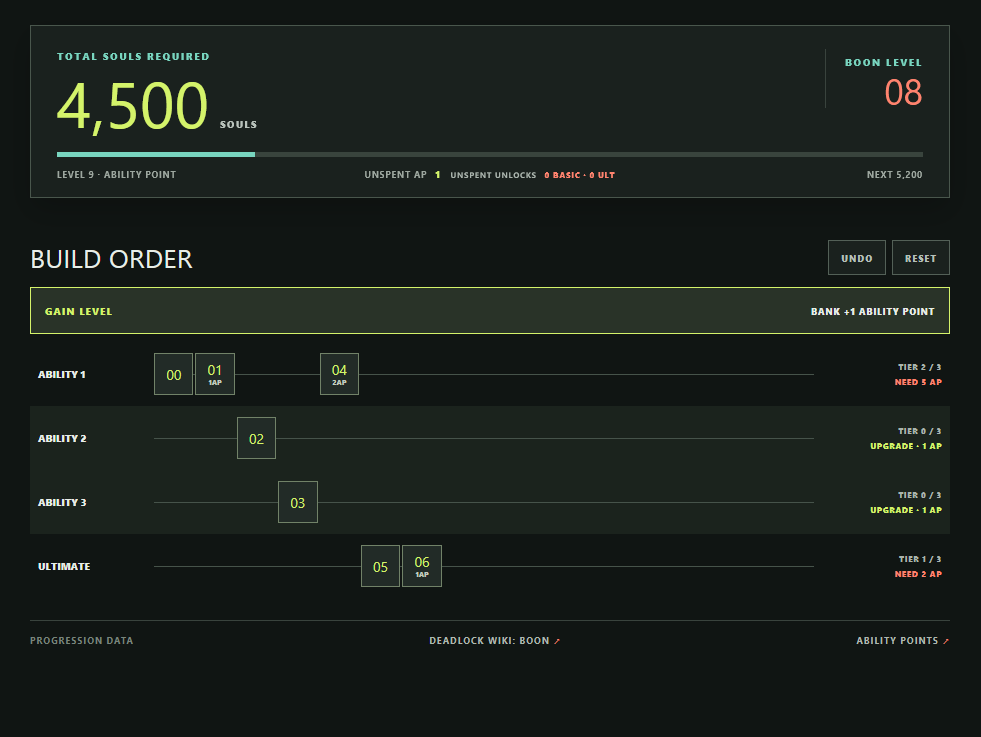
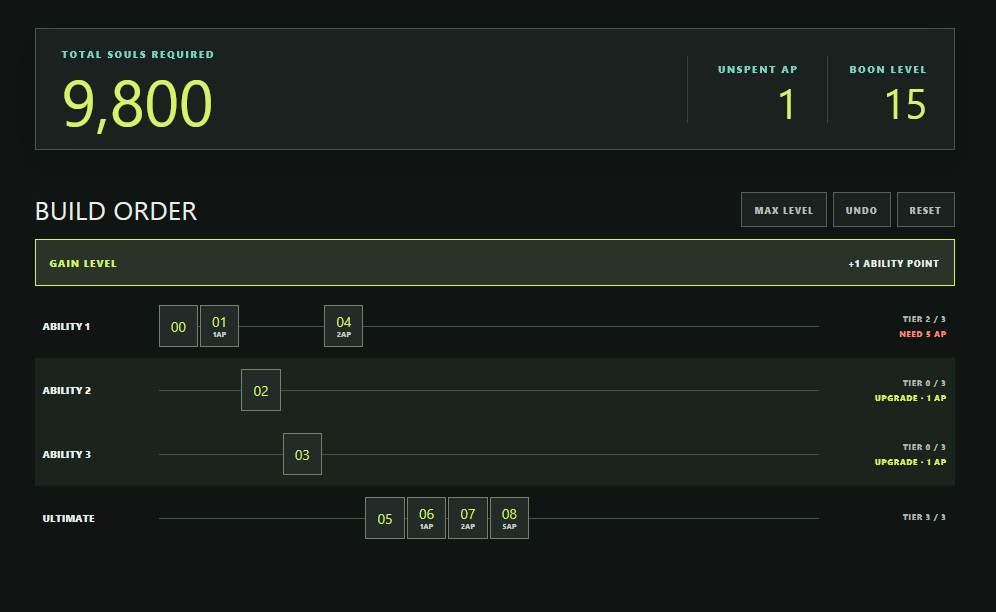
preview + documentation

diff --git a/README.md b/README.md
@@ -2,6 +2,8 @@
 
 A local Flask companion for planning Deadlock ability progression. Choose which ability to unlock or upgrade at each reward; every choice advances the boon progression and updates the total soul count. The ordered choices remain visible in the build log.
 
+Try the [Boon Picker on GitHub Pages](https://littlebitwise.github.io/BoonPlanner/).
+
 ![Boon Picker screenshot](preview.png)
 
 Every level can be gained without upgrading an ability. Levels 0, 2, and 4 bank basic ability unlocks, level 7 banks the Ultimate unlock, and the other levels bank one ability point. Banked unlocks can be assigned later. Ability upgrades spend from the unspent point balance: 1 point for Tier I, then 2 for Tier II, then 5 for Tier III.

diff --git a/.github/copilot-instructions.md b/.github/copilot-instructions.md
@@ -1,6 +1,7 @@
 # Boon Picker project notes
 
 - Keep the app as a small Flask project; avoid adding dependencies without a clear need.
+- The `static` branch serves the static site on GitHub Pages: https://littlebitwise.github.io/BoonPlanner/.
 - `SOUL_THRESHOLDS` in `app.py` is the authoritative level 0-35 progression list and should stay in sync with the Deadlock Wiki Boon page.
 - Keep the selected cumulative soul total visible and advance the boon level whenever an ability reward is assigned.
 - Preserve the ordered ability choices, the level 0/2/4/7 unlock cadence, and the 1/2/5 additional ability-point tier costs.
